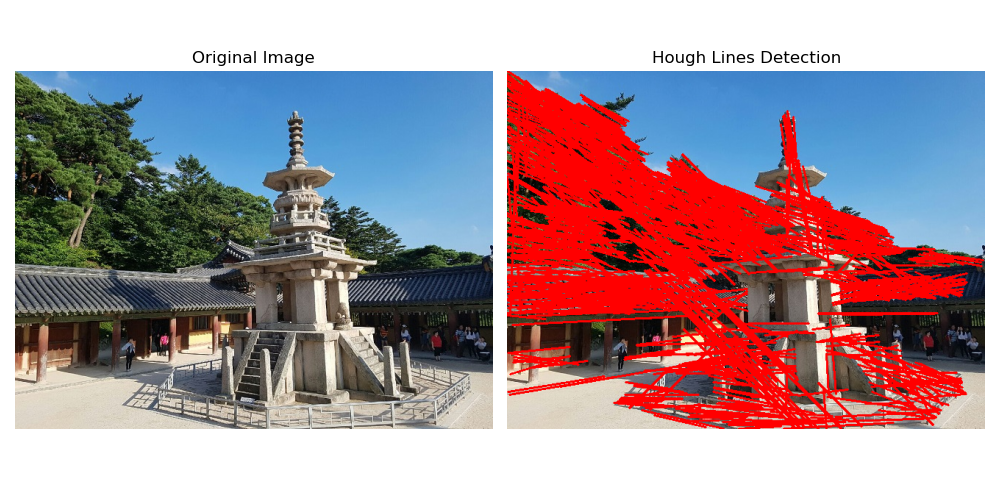
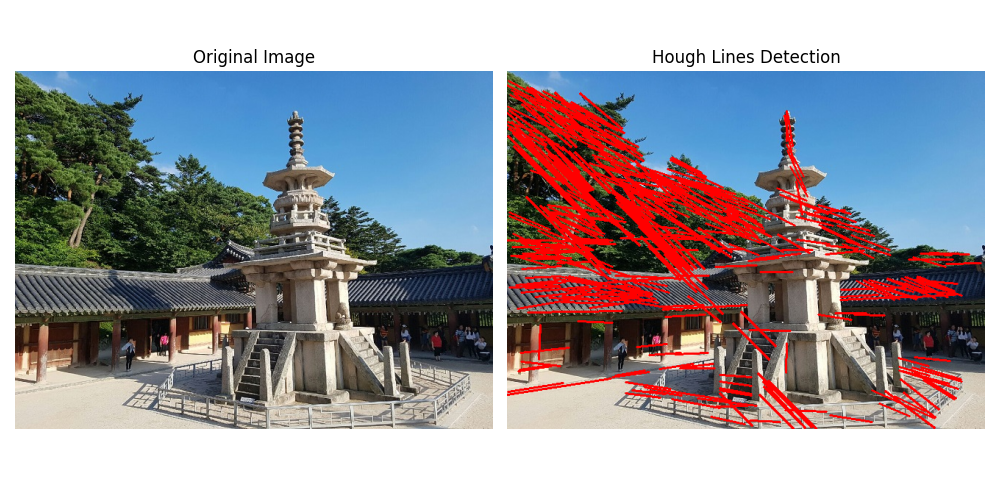
Add Computer Vision Assignment 3 (Edge and Region)

Changed region(s): [[0.496, 0.15, 0.992, 0.87], [0.651, 0.09, 0.837, 0.12], [0.186, 0.09, 0.31, 0.15]]

diff --git a/task3_grabcut.py b/task3_grabcut.py
@@ -24,19 +24,19 @@ def main():
     
     # 3. 객체(컵)가 정확히 머물고 있을 것으로 짐작되는 초기 바운딩 사각형(Rect) 지역을 추론하기 귀해 해상도를 추출합니다.
     h, w = img.shape[:2] # 높이(Height)와 가로 폭(Width) 치수를 투플 속성에서 끄집어 가져옵니다.
-    # 임의 숫자를 하드코딩하지 않고, 이미지 가로폭의 15% 기점(x), 높이의 10% 기점(y) 같이 동적인 화면 변수 기준으로 좌표 이동을 도출합니다.
-    x, y = int(w * 0.15), int(h * 0.1) 
-    # 가로는 영상 너비의 70%만큼 채우고, 세로는 80%를 아우르는 매우 거대한 사각형 크기를 설정합니다.
-    rect_w, rect_h = int(w * 0.7), int(h * 0.8) 
+    # 임의 숫자를 하드코딩하지 않고, 이미지 가로폭의 15% 기점(x), 높이의 10% 기점(y) 같이 사진 외곽의 테두리를 배경 샘플로 사용하기 위해 10픽셀 여백을 둡니다.
+    x, y = 10, 10 
+    # 가로는 영상 너비의 70%만큼 채우고, 세로는 80%를 아우르는 사진 전체를 꽉 채우는 사각형(Rect)을 설정합니다.
+    rect_w, rect_h = w - 20, h - 20 
     # 산출해낸 4가지 수치를 단일 튜플 구조(x, y, w, h)로 변환해서 하나로 강하게 뭉쳐줍니다.
     rect = (x, y, rect_w, rect_h) 
     
     # 4. 방금 추론한 렉트 좌표(Rect)를 중심으로 주변은 무조건 배경치고 안쪽은 전경 후보로 상정하여 분류기(GrabCut)를 5사이클 동안 반복 학습하며 실행합니다.
     cv.grabCut(img, mask, rect, bgdModel, fgdModel, 5, cv.GC_INIT_WITH_RECT) 
     
-    # 5. 분류가 끝난 마스크 안에는 네 가지 라벨링 정수(0:배경, 1:전경, 2:배경일듯, 3:전경일듯)가 복잡하게 산재해 있습니다. 후처리 정리가 시급합니다.
-    # Numpy의 where 불리언 잣대를 사용하여 값이 2(배경일듯) 와 0(순수배경)일 경우 가차없이 0(검은색)으로 치환하고 나머지를 1로 바꿔 완전한 이진 데이터 파이프라인으로 캐스팅합니다.
-    mask_binary = np.where((mask == 2) | (mask == 0), 0, 1).astype('uint8') 
+    # 5. 분류가 끝난 마스크 안에는 네 가지 라벨링 정수(cv.GC_BGD:배경, cv.GC_FGD:전경, cv.GC_PR_BGD:배경후보, cv.GC_PR_FGD:전경후보)가 복잡하게 산재해 있습니다. 후처리 정리가 시급합니다.
+    # Numpy의 where 불리언 잣대를 사용하여 값이 cv.GC_PR_BGD 와 cv.GC_BGD 일 경우 가차없이 0(검은색)으로 치환하고 나머지를 1로 바꿔 완전한 이진 데이터 파이프라인으로 캐스팅합니다.
+    mask_binary = np.where((mask == cv.GC_PR_BGD) | (mask == cv.GC_BGD), 0, 1).astype('uint8') 
     
     # 6. 원본 이미지 행렬 스칼라에 이진 마스크 행렬을 무작위 곱셈하여, 배경 영역(0)은 무색 암흑화시키고 컵 영역(1)만 밝기 100%를 통과시키도록 오버레이시킵니다.
     # 이때 3차원 컬러 사진과 차원 축을 맞추고자 np.newaxis 트릭으로 억지로 마스크의 채널을 1개 증폭시켜줍니다.

diff --git a/task2_hough.py b/task2_hough.py
@@ -25,9 +25,9 @@ def main():
     # 4. 통계적 투표 방식인 확률적 허프 변환(HoughLinesP)에 투입될 민감한 하이퍼 파라미터들을 코드 상단에 변수화하여 외부에서 편하게 조작토록 뺍니다.
     rho = 1                         # Hough 변환 매개 공간에서 원점 기준 탐색할 수직 선 거리의 분해능을 의미합니다 (1픽셀 단위).
     theta = np.pi / 180             # Hough 공간에서 선을 탐색할 각도의 촘촘한 분해능을 삼각함수 라디안으로 정의합니다 (1도 단위).
-    hough_threshold = 50            # 동일 직선 위에 존재한다고 '투표(교차)'한 점의 개수가 50개를 넘어설 때만 직선으로 추려냅니다.
-    minLineLength = 50              # 아무리 강한 직선이라도 이 픽셀 길이 이하라면 노이즈(먼지)로 간주해 폐기합니다.
-    maxLineGap = 10                 # 도중에 끊어짐이 있는 파선이라도 그 간극이 10픽셀 이내라면 연장된 하나의 직선으로 편입시킵니다.
+    hough_threshold = 80            # 동일 직선 위에 존재한다고 '투표(교차)'한 점의 개수가 80개를 넘어설 때만 직선으로 추려냅니다.
+    minLineLength = 40              # 아무리 강한 직선이라도 이 픽셀 길이 이하라면 노이즈(먼지)로 간주해 폐기합니다.
+    maxLineGap = 5                 # 도중에 끊어짐이 있는 파선이라도 그 간극이 5픽셀 이내라면 연장된 하나의 직선으로 편입시킵니다.
     
     # 앞서 도출한 에지 영상(edges)을 투입하고, 최적화 튜닝한 5개의 파라미터를 사용해 유의미한 선분들의 시작/끝 좌표 배열집(lines)을 얻어냅니다.
     lines = cv.HoughLinesP(edges, rho, theta, hough_threshold, 
